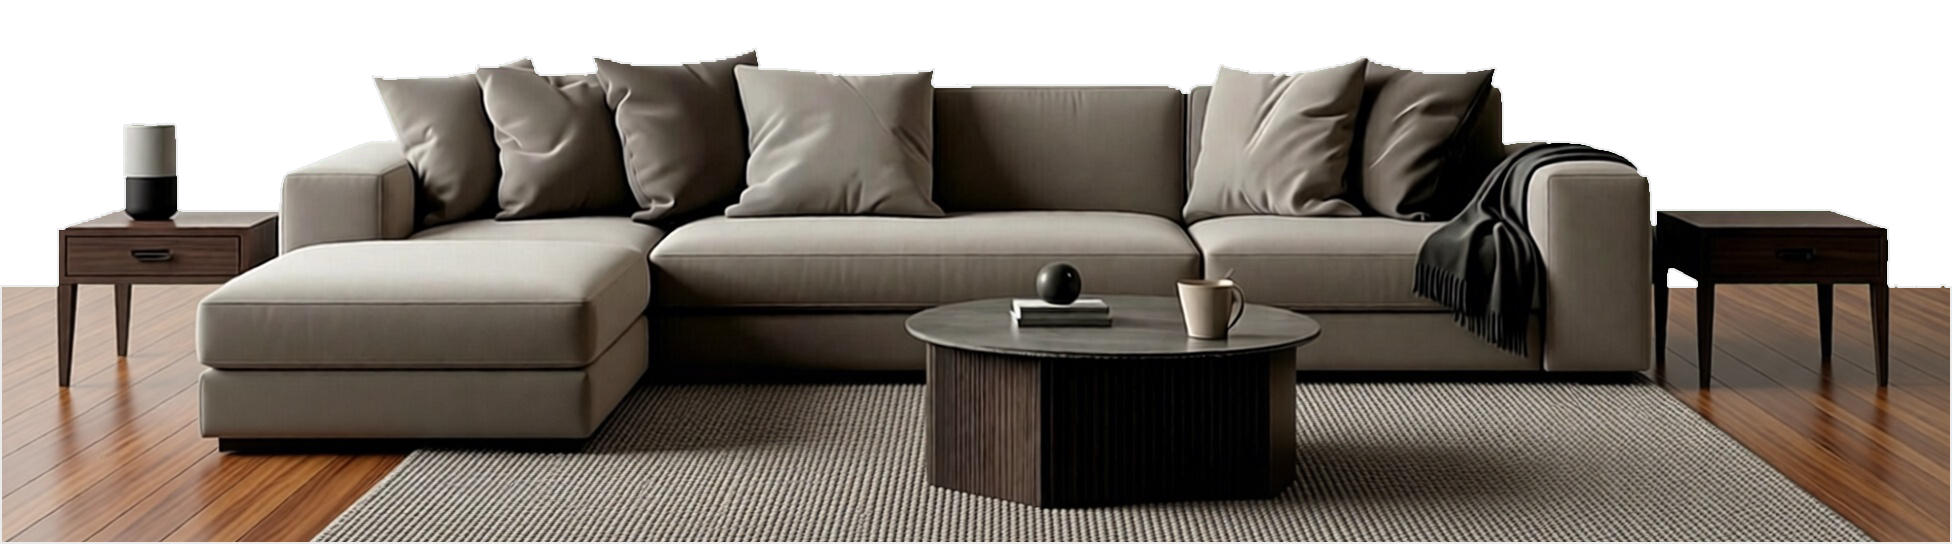
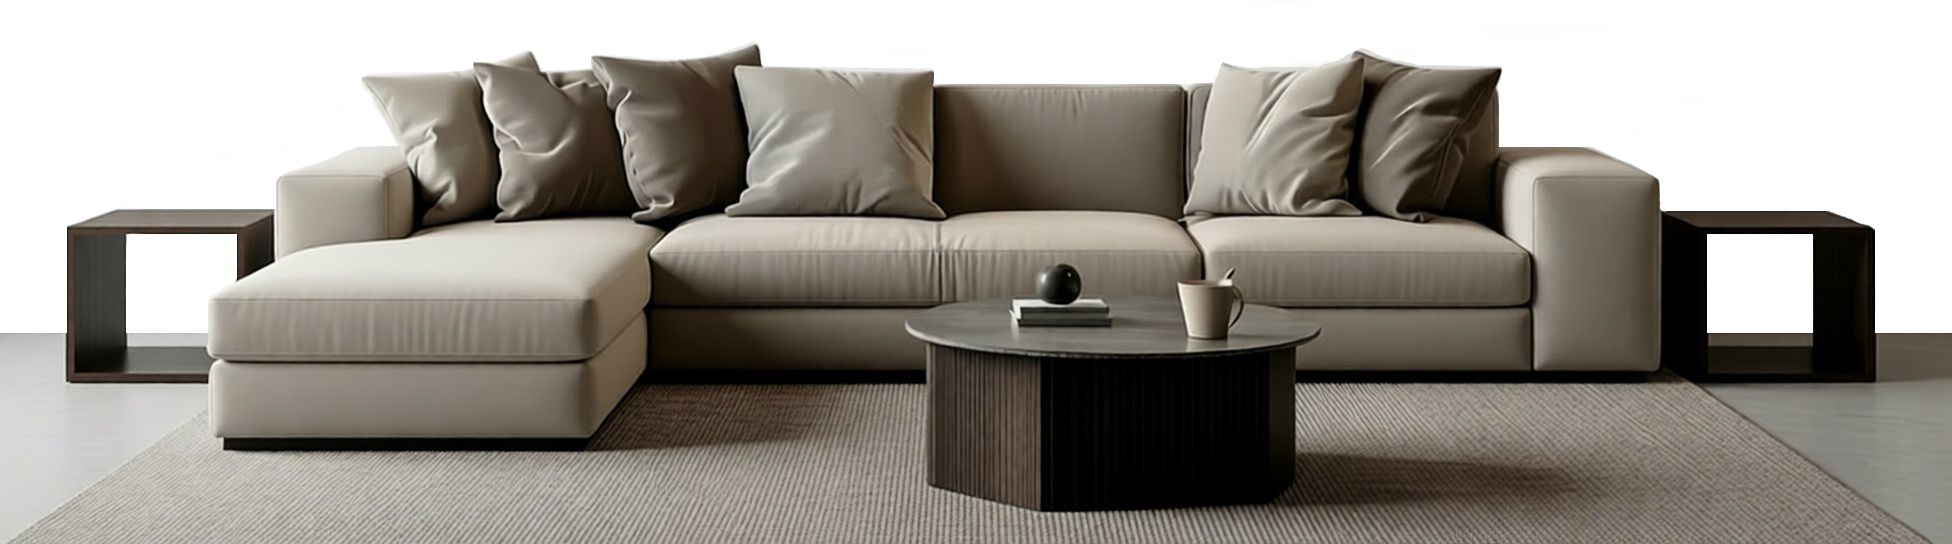
Change sofa image to sofa 2.png

diff --git a/index.html b/index.html
@@ -832,7 +832,7 @@
         
         <!-- Мебель на переднем плане -->
         <div class="furniture-overlay" aria-hidden="true">
-            <img src="images/sofa.png" alt="Угловой диван">
+            <img src="images/sofa 2.png" alt="Угловой диван">
         </div>
     </div>
 